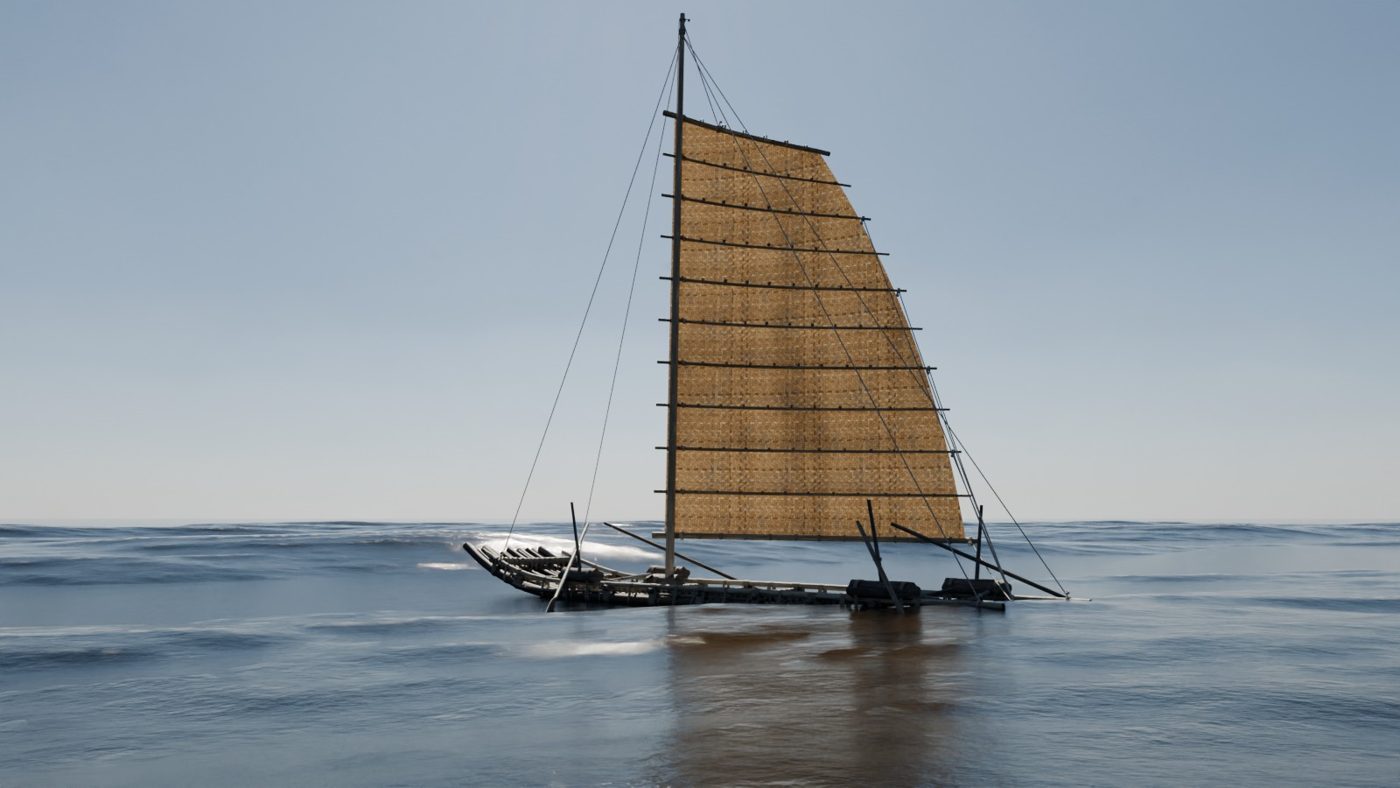
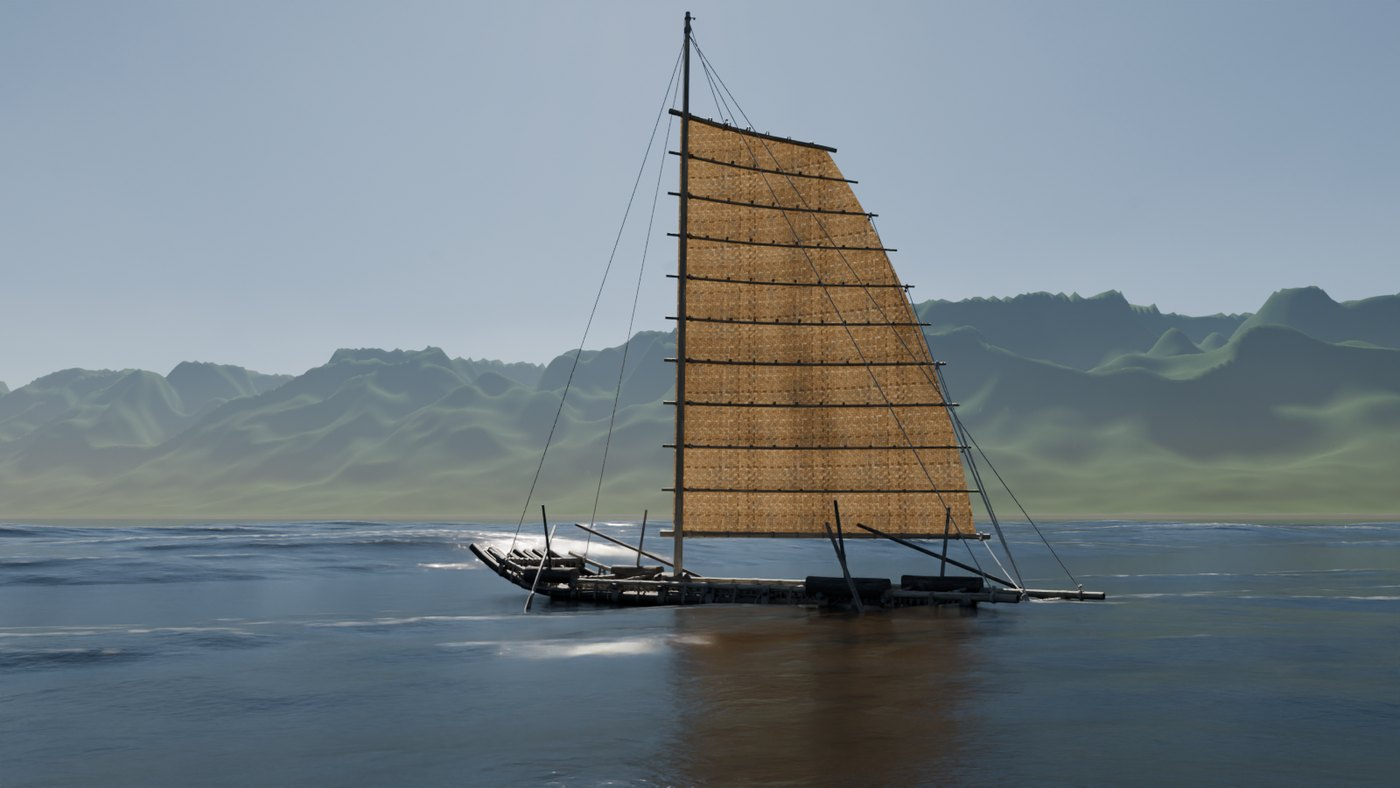
README picture: Palafang at sea with the coast behind; float the stern higher
Claude-Session: https://claude.ai/code/session_01CKKBcZmT7iTuzuxn6KV1Rb

diff --git a/simulator/blender/render_photoreal.py b/simulator/blender/render_photoreal.py
@@ -816,9 +816,9 @@ def main():
             vs = o.data.vertices
             for k in range(0, len(vs), max(1, len(vs) // 400)):
                 bz.append((mw @ vs[k].co).z)
-        rig.location.z -= (min(bz) if bz else min(zs)) + 0.105
+        rig.location.z -= (min(bz) if bz else min(zs)) + 0.075
         # A little heel to leeward and bow-down trim under sail.
-        rig.rotation_euler = (math.radians(1.6), math.radians(0.6), rig.rotation_euler[2])
+        rig.rotation_euler = (math.radians(1.6), math.radians(1.2), rig.rotation_euler[2])
     bpy.context.view_layer.update()
 
     for m in list(bpy.data.materials):
